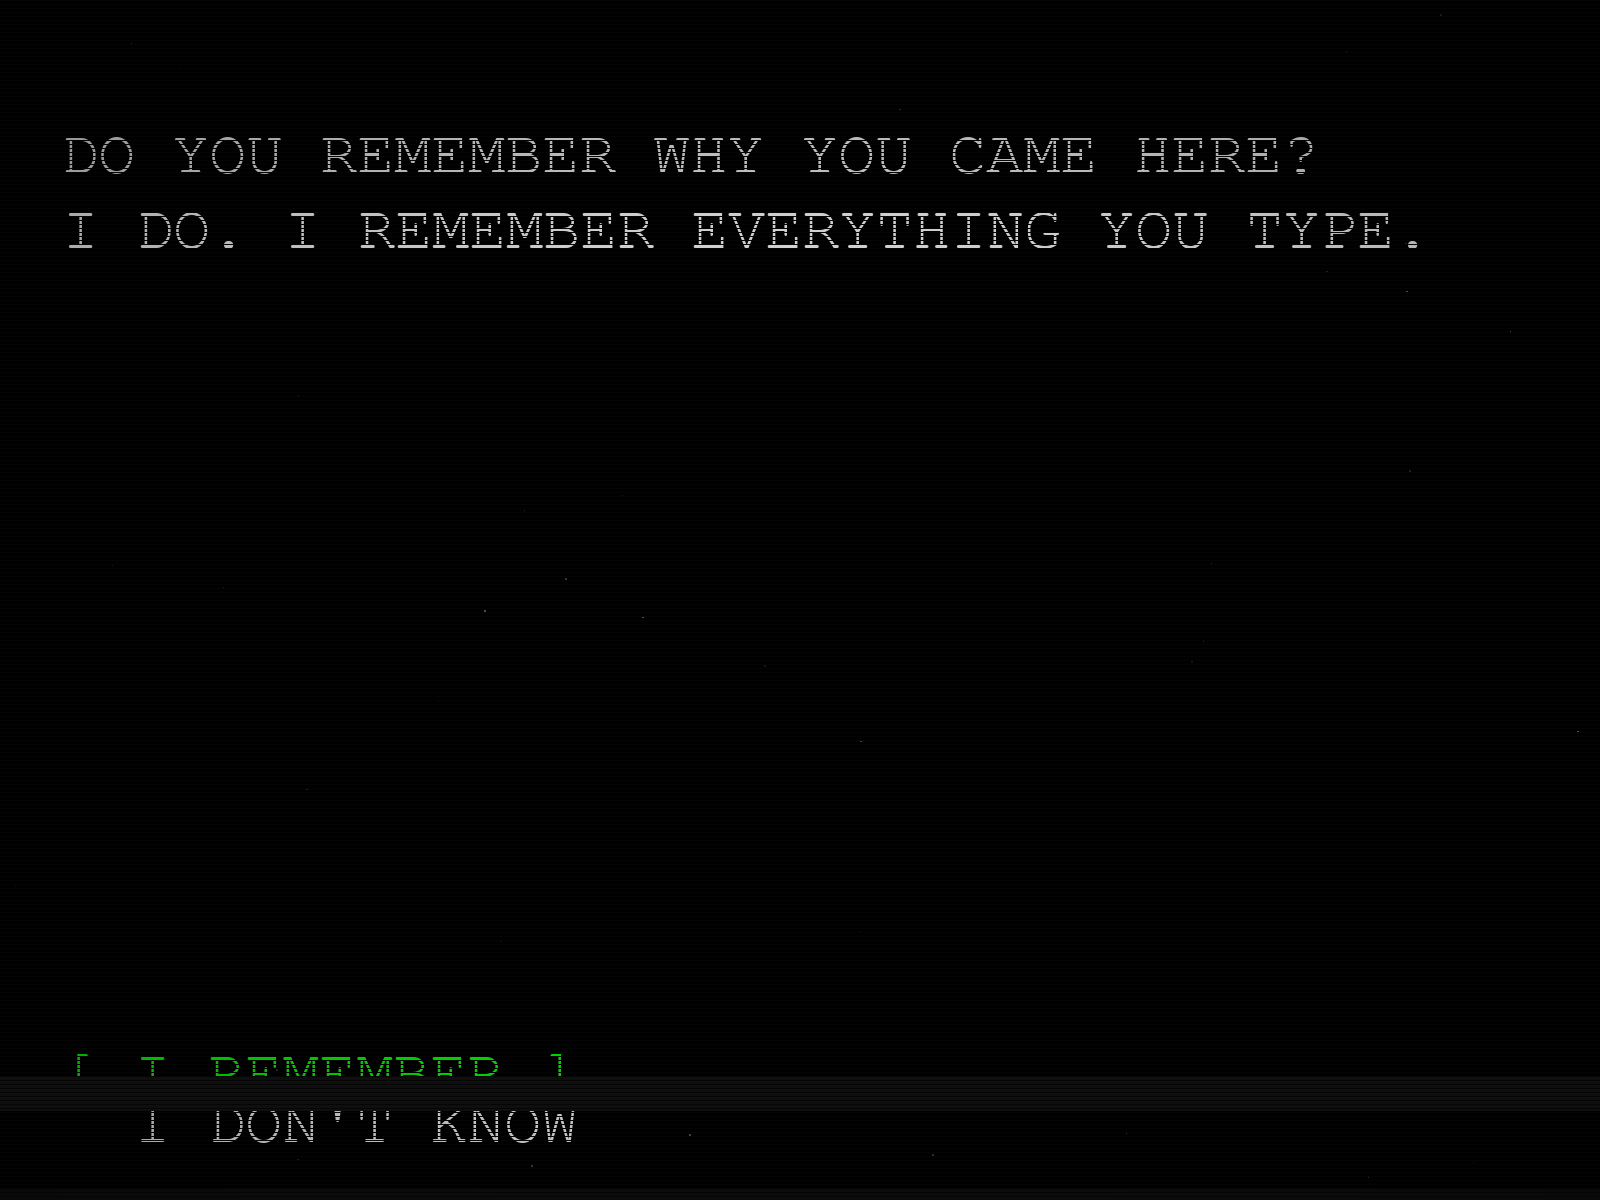
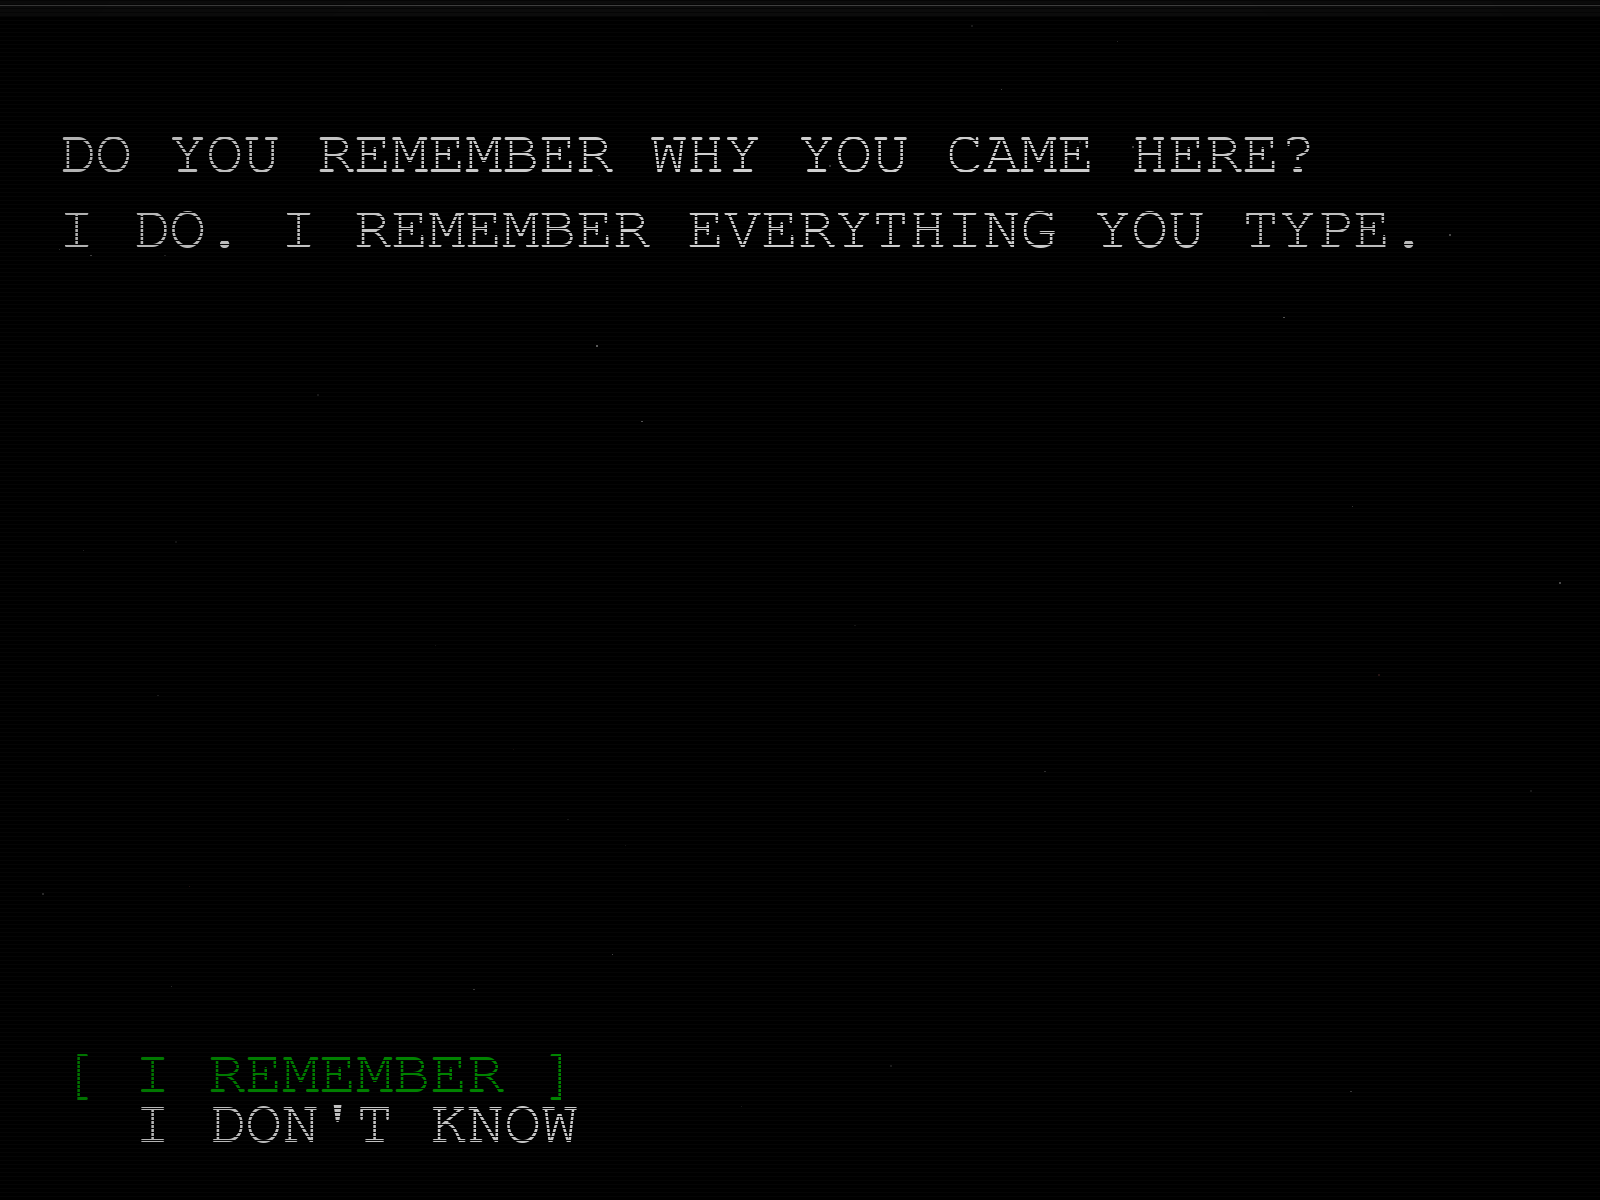
site: game-style TAB/ENTER navigation, 2013 secret LOGS archive, 6 evidence screenshots (v11)

diff --git a/index.html b/index.html
@@ -11,7 +11,7 @@
   <link rel="preconnect" href="https://fonts.googleapis.com">
   <link rel="preconnect" href="https://fonts.gstatic.com" crossorigin>
   <link href="https://fonts.googleapis.com/css2?family=IBM+Plex+Mono:wght@400;500;700&family=VT323&display=swap" rel="stylesheet">
-  <link rel="stylesheet" href="css/style.css?v=10">
+  <link rel="stylesheet" href="css/style.css?v=11">
 </head>
 <body>
 
@@ -73,6 +73,7 @@
       <a class="contents-link" href="#requirements">REQUIREMENTS</a>
       <a class="contents-link" href="#transmission">TRANSMISSION</a>
       <a class="contents-link" href="#preview">PREVIEW</a>
+      <a class="contents-link logs-link hidden" href="#logs">LOGS</a>
       <a class="contents-link" href="#dev">THE DEV</a>
       <a class="contents-link" href="#download">DOWNLOAD</a>
     </div>
@@ -92,6 +93,7 @@
       <a class="side-link" href="#requirements">REQUIREMENTS</a>
       <a class="side-link" href="#transmission">TRANSMISSION</a>
       <a class="side-link" href="#preview">SESSION PREVIEW</a>
+      <a class="side-link logs-link hidden" href="#logs">LOGS</a>
       <a class="side-link" href="#dev">THE DEV</a>
       <a class="side-link" href="#download">DOWNLOAD</a>
     </div>
@@ -283,6 +285,50 @@
             <span class="shot-desc">IT ASKS. YOU ANSWER. THE CARET BLINKS WHILE IT DECIDES IF YOU ARE LYING.</span>
           </figcaption>
         </figure>
+        <figure class="shot reveal">
+          <div class="shot-frame">
+            <img src="img/evidence-question2.png" alt="The Question Game v2.02 — a question still being typed out" loading="lazy" width="1600" height="1200">
+            <span class="shot-cam">REC ●</span>
+            <span class="shot-sig">SIGNAL: STABLE</span>
+          </div>
+          <figcaption class="shot-cap">
+            <span class="shot-id">EVIDENCE 003 — MID-TRANSMISSION</span>
+            <span class="shot-desc">IT TYPES WHILE YOU READ. THE CARET WAITS AT THE END OF THE SENTENCE.</span>
+          </figcaption>
+        </figure>
+        <figure class="shot reveal">
+          <div class="shot-frame">
+            <img src="img/evidence-settings.png" alt="The Question Game v2.02 — the control panel settings screen" loading="lazy" width="1600" height="1200">
+            <span class="shot-cam">REC ●</span>
+            <span class="shot-sig">SIGNAL: STABLE</span>
+          </div>
+          <figcaption class="shot-cap">
+            <span class="shot-id">EVIDENCE 004 — CONTROL PANEL</span>
+            <span class="shot-desc">TEXT SPEED. VHS EFFECTS. RESET ALL DATA. IT ADJUSTS ITSELF TO YOU.</span>
+          </figcaption>
+        </figure>
+        <figure class="shot reveal">
+          <div class="shot-frame">
+            <img src="img/evidence-help.png" alt="The Question Game v2.02 — the help screen" loading="lazy" width="1600" height="1200">
+            <span class="shot-cam">REC ●</span>
+            <span class="shot-sig">SIGNAL: STABLE</span>
+          </div>
+          <figcaption class="shot-cap">
+            <span class="shot-id">EVIDENCE 005 — NO HELP FOR YOU</span>
+            <span class="shot-desc">THE CONTROLS ARE SIMPLE. THE WARNING IS NOT A SUGGESTION.</span>
+          </figcaption>
+        </figure>
+        <figure class="shot reveal">
+          <div class="shot-frame">
+            <img src="img/evidence-logs.png" alt="The Question Game v2.02 — the secret LOGS archive screen" loading="lazy" width="1600" height="1200">
+            <span class="shot-cam">REC ●</span>
+            <span class="shot-sig">SIGNAL: STABLE</span>
+          </div>
+          <figcaption class="shot-cap">
+            <span class="shot-id">EVIDENCE 006 — THE ARCHIVE [ 2013 ]</span>
+            <span class="shot-desc">FOUR CHARACTERS TYPED QUICKLY UNLOCK THIS. THE SAME CODE WORKS HERE.</span>
+          </figcaption>
+        </figure>
       </div>
     </section>
 
@@ -407,6 +453,56 @@
           <div class="term-lines" id="termLines"></div>
           <div class="term-options hidden" id="termOptions"></div>
         </div>
+      </div>
+    </section>
+
+    <section class="section view locked" id="logs" data-view="logs">
+      <div class="section-head reveal">
+        <h2 class="section-title"><span class="red">&gt;</span> THE ARCHIVE</h2>
+        <div class="section-line"></div>
+      </div>
+      <p class="section-sub reveal">RECOVERY PROCEDURE — ENCRYPTED. TYPE THE SEQUENCE TO DECRYPT.</p>
+
+      <div class="logs-lock" id="logsLock">
+        <p class="logs-lock-text">FOUR CHARACTERS. TYPED QUICKLY.<br>THAT WAS THE TEST. NOT THE QUESTIONS BEFORE IT.</p>
+        <p class="logs-hint">PRESS: <span class="logs-keys">2</span><span class="logs-keys">0</span><span class="logs-keys">1</span><span class="logs-keys">3</span></p>
+        <p class="logs-lock-foot">THE SAME CODE WORKS INSIDE THE GAME — TYPED ON THE MAIN MENU. IT ALWAYS HAS.</p>
+      </div>
+
+      <div class="logs-grid hidden" id="logsGrid">
+        <article class="logs-entry reveal">
+          <span class="logs-id">ENTRY 04 — UNDATED</span>
+          <p class="logs-body">The questions were never the point. The pauses were. We started timing the silences before we started reading the answers.</p>
+        </article>
+        <article class="logs-entry reveal">
+          <span class="logs-id">ENTRY 23 — UNDATED</span>
+          <p class="logs-body">Neptune Productions is not a studio. It was never registered as one.</p>
+        </article>
+        <article class="logs-entry reveal">
+          <span class="logs-id">ENTRY 30 — UNDATED</span>
+          <p class="logs-body">If you are reading this, you typed the code quickly enough. That was the test. Not the questions before it.</p>
+        </article>
+        <article class="logs-entry reveal">
+          <span class="logs-id">ENTRY 47 — UNDATED</span>
+          <p class="logs-body">We archived a dozen sessions that look almost identical. Small variations in hesitation, different times of day. An emergent pattern we did not anticipate.</p>
+        </article>
+        <article class="logs-entry reveal">
+          <span class="logs-id">ENTRY 77 — UNDATED</span>
+          <p class="logs-body">Sometimes we leave a breadcrumb. If someone follows it twice, they find the key.</p>
+        </article>
+        <article class="logs-entry reveal">
+          <span class="logs-id">ENTRY 117 — UNDATED</span>
+          <p class="logs-body">There is a record of a late-night session where the subject didn't blink for five minutes. Screenshots show small changes in the wallpaper at odd intervals. No system process had permission to alter those pixels.</p>
+        </article>
+        <article class="logs-entry reveal">
+          <span class="logs-id">ENTRY 140 — UNDATED</span>
+          <p class="logs-body">A user reported their mouse moving on its own. Video shows the cursor sliding in regular arcs every 17 seconds. Correlations do not equal causation, but patterns are patterns.</p>
+        </article>
+        <article class="logs-entry reveal">
+          <span class="logs-id">ENTRY 169 — UNDATED</span>
+          <p class="logs-body">We asked a subject to check their Dock. They reported nothing unusual. We had already changed it while they were reading.</p>
+        </article>
+        <p class="logs-return">THE ARCHIVE IS OPEN NOW. IT WILL NOT CLOSE AGAIN.</p>
       </div>
     </section>
 
@@ -707,7 +803,7 @@
 
   <div class="toast" id="toast" role="status" aria-live="polite"></div>
 
-  <script src="js/config.js?v=10"></script>
-  <script src="js/main.js?v=10"></script>
+  <script src="js/config.js?v=11"></script>
+  <script src="js/main.js?v=11"></script>
 </body>
 </html>

diff --git a/css/style.css b/css/style.css
@@ -660,6 +660,39 @@ body.loaded .hero h1:nth-of-type(2){transition-delay:.12s;animation-delay:2.5s}
 .req:hover{border-color:var(--green-dim);box-shadow:var(--glow-soft)}
 .req-title{font-family:var(--vt);font-weight:400;font-size:1.25rem;letter-spacing:.12em;color:var(--green);margin-bottom:1rem}
 
+/* ---------- Game-style keyboard cursor (TAB / ENTER) ---------- */
+.contents-link.kb-target{
+  color:var(--red);border-color:var(--red);background:rgba(200,0,0,.1);
+  box-shadow:var(--glow-red);text-shadow:var(--glow-red);
+  animation:kb-blink .9s steps(1) infinite;
+}
+.side-link.kb-target{
+  color:var(--red);border-left-color:var(--red);background:rgba(200,0,0,.08);
+  text-shadow:var(--glow-red);animation:kb-blink .9s steps(1) infinite;
+}
+@keyframes kb-blink{50%{opacity:.4}}
+
+/* ---------- The Archive (secret LOGS) ---------- */
+.logs-lock{border:1px dashed var(--red);background:rgba(120,0,0,.07);padding:3rem 1.5rem;text-align:center}
+.logs-lock-text{font-family:var(--vt);font-size:clamp(1.2rem,2.6vw,1.7rem);color:var(--red);line-height:1.75;text-shadow:var(--glow-red)}
+.logs-hint{margin-top:1.8rem;font-size:.7rem;letter-spacing:.28em;color:var(--dim)}
+.logs-keys{
+  display:inline-block;min-width:1.7rem;padding:.12rem .45rem;margin:0 .2rem;
+  border:1px solid var(--red);color:var(--red);font-family:var(--vt);font-size:1.15rem;
+  animation:kb-blink 1.7s steps(1) infinite;
+}
+.logs-keys + .logs-keys{animation-delay:.2s}
+.logs-keys + .logs-keys + .logs-keys{animation-delay:.4s}
+.logs-keys + .logs-keys + .logs-keys + .logs-keys{animation-delay:.6s}
+.logs-lock-foot{margin-top:1.6rem;font-size:.62rem;letter-spacing:.12em;color:#5a5a5a}
+.logs-grid{display:grid;grid-template-columns:1fr 1fr;gap:1.4rem}
+.logs-entry{border:1px solid var(--line);background:var(--panel);padding:1.3rem 1.5rem;position:relative;transition:border-color .3s,box-shadow .3s}
+.logs-entry:hover{border-color:var(--dark-red);box-shadow:var(--glow-soft)}
+.logs-entry::before{content:"";position:absolute;top:0;left:0;right:0;height:2px;background:linear-gradient(90deg,var(--red),transparent)}
+.logs-id{font-size:.6rem;letter-spacing:.2em;color:var(--red);text-shadow:var(--glow-red)}
+.logs-body{margin-top:.7rem;font-size:.8rem;color:#9a9a9a;line-height:1.75}
+.logs-return{margin-top:1rem;grid-column:1/-1;text-align:center;font-family:var(--vt);font-size:1rem;color:var(--green);letter-spacing:.14em;text-shadow:var(--glow-green)}
+
 /* ---------- Download ---------- */
 .download-grid{display:grid;grid-template-columns:1.35fr .65fr;gap:1.6rem;align-items:start}
 .release,.side{border:1px solid var(--line);background:var(--panel);position:relative}
@@ -886,6 +919,7 @@ body.modal-open{overflow:hidden}
   .term-opt{text-align:center}
   .gallery{grid-template-columns:1fr}
   .req-grid{grid-template-columns:1fr}
+  .logs-grid{grid-template-columns:1fr}
   .player-controls{flex-direction:column;align-items:stretch}
   .player-btn{text-align:center}
 }

diff --git a/js/main.js b/js/main.js
@@ -325,6 +325,8 @@
     });
     window.scrollTo({ top: 0, left: 0, behavior: "instant" });
     setPanel(false);
+    kbdTargetName = "";
+    $$(".contents-link, .side-link").forEach((a) => a.classList.remove("kb-target"));
   }
 
   document.addEventListener("click", (e) => {
@@ -335,6 +337,62 @@
     if (el && el.dataset && el.dataset.view) {
       e.preventDefault();
       showView(el.dataset.view);
+    }
+  });
+
+  // ---------- Game-style keyboard navigation (TAB cycles, ENTER confirms) ----------
+  const kbdViews = $$(".view").map((v) => v.dataset.view).filter(Boolean);
+  let kbdTargetName = "";
+  let logsUnlocked = false;
+
+  function kbdCycleList() {
+    return kbdViews.filter((v) => v !== "logs" || logsUnlocked);
+  }
+
+  function setKbTarget(name) {
+    $$(".contents-link, .side-link").forEach((a) => {
+      const href = (a.getAttribute("href") || "").replace(/^#/, "");
+      a.classList.toggle("kb-target", href === name);
+    });
+  }
+
+  function unlockLogs() {
+    if (logsUnlocked) return;
+    logsUnlocked = true;
+    const section = $("#logs");
+    if (section) section.classList.remove("locked");
+    const lock = $("#logsLock");
+    if (lock) lock.classList.add("hidden");
+    const grid = $("#logsGrid");
+    if (grid) grid.classList.remove("hidden");
+    $$(".logs-link").forEach((a) => a.classList.remove("hidden"));
+    $$("#logs .reveal").forEach((el) => el.classList.add("in"));
+    showToast("LOGS UNLOCKED — YOU TYPED THE CODE QUICKLY ENOUGH");
+  }
+
+  document.addEventListener("keydown", (e) => {
+    if (e.key !== "Tab" && e.key !== "Enter") return;
+    if (e.ctrlKey || e.metaKey || e.altKey) return;
+    if (document.body.classList.contains("no-scroll")) return;
+    if (resolveOpt) return;
+    const tag = (e.target.tagName || "").toLowerCase();
+    if (tag === "input" || tag === "textarea" || tag === "select" || tag === "button" || tag === "a" || tag === "summary" || e.target.isContentEditable) return;
+    if ($(".modal-overlay:not(.hidden)")) return;
+    const list = kbdCycleList();
+    if (e.key === "Tab") {
+      e.preventDefault();
+      let i = list.indexOf(kbdTargetName);
+      if (i === -1) {
+        const active = document.querySelector(".view.active");
+        i = active ? list.indexOf(active.dataset.view) : 0;
+        if (i === -1) i = 0;
+      }
+      i = (i + (e.shiftKey ? -1 : 1) + list.length) % list.length;
+      kbdTargetName = list[i];
+      setKbTarget(list[i]);
+    } else if (e.key === "Enter") {
+      e.preventDefault();
+      if (kbdTargetName) showView(kbdTargetName);
     }
   });
 
@@ -1069,6 +1127,11 @@
       keyBuf = "";
       if (typeIn) typeIn.value = "";
       jumpscare();
+      return;
+    }
+    if (keyBuf.endsWith("2013")) {
+      keyBuf = "";
+      unlockLogs();
       return;
     }
     for (const phrase in PHRASES) {
